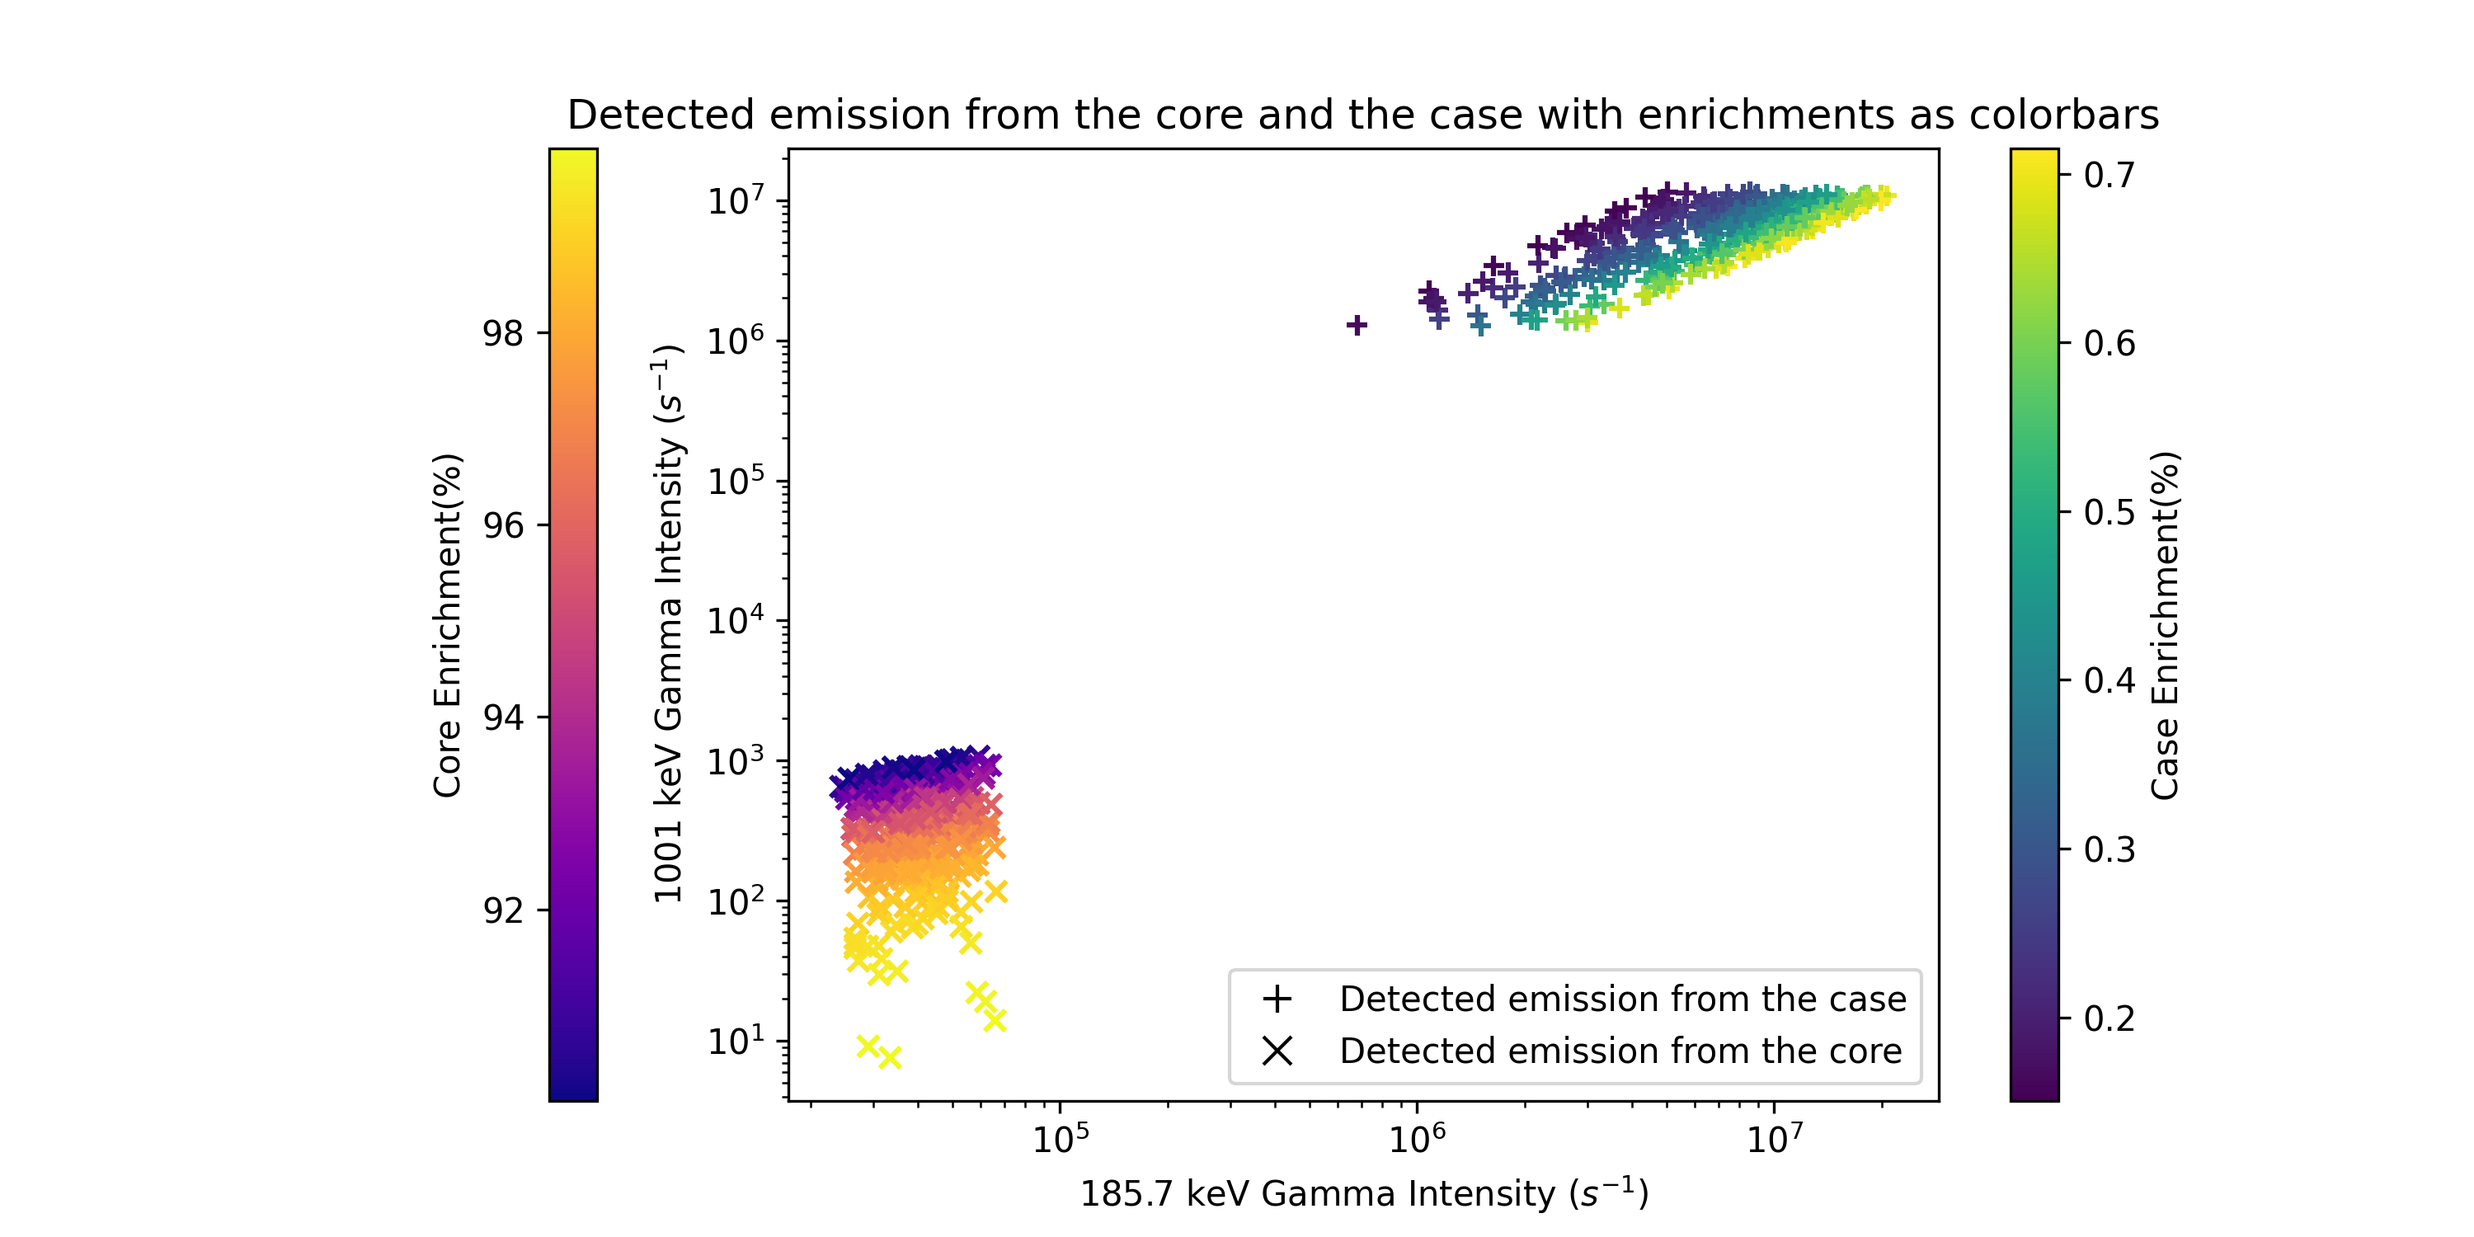
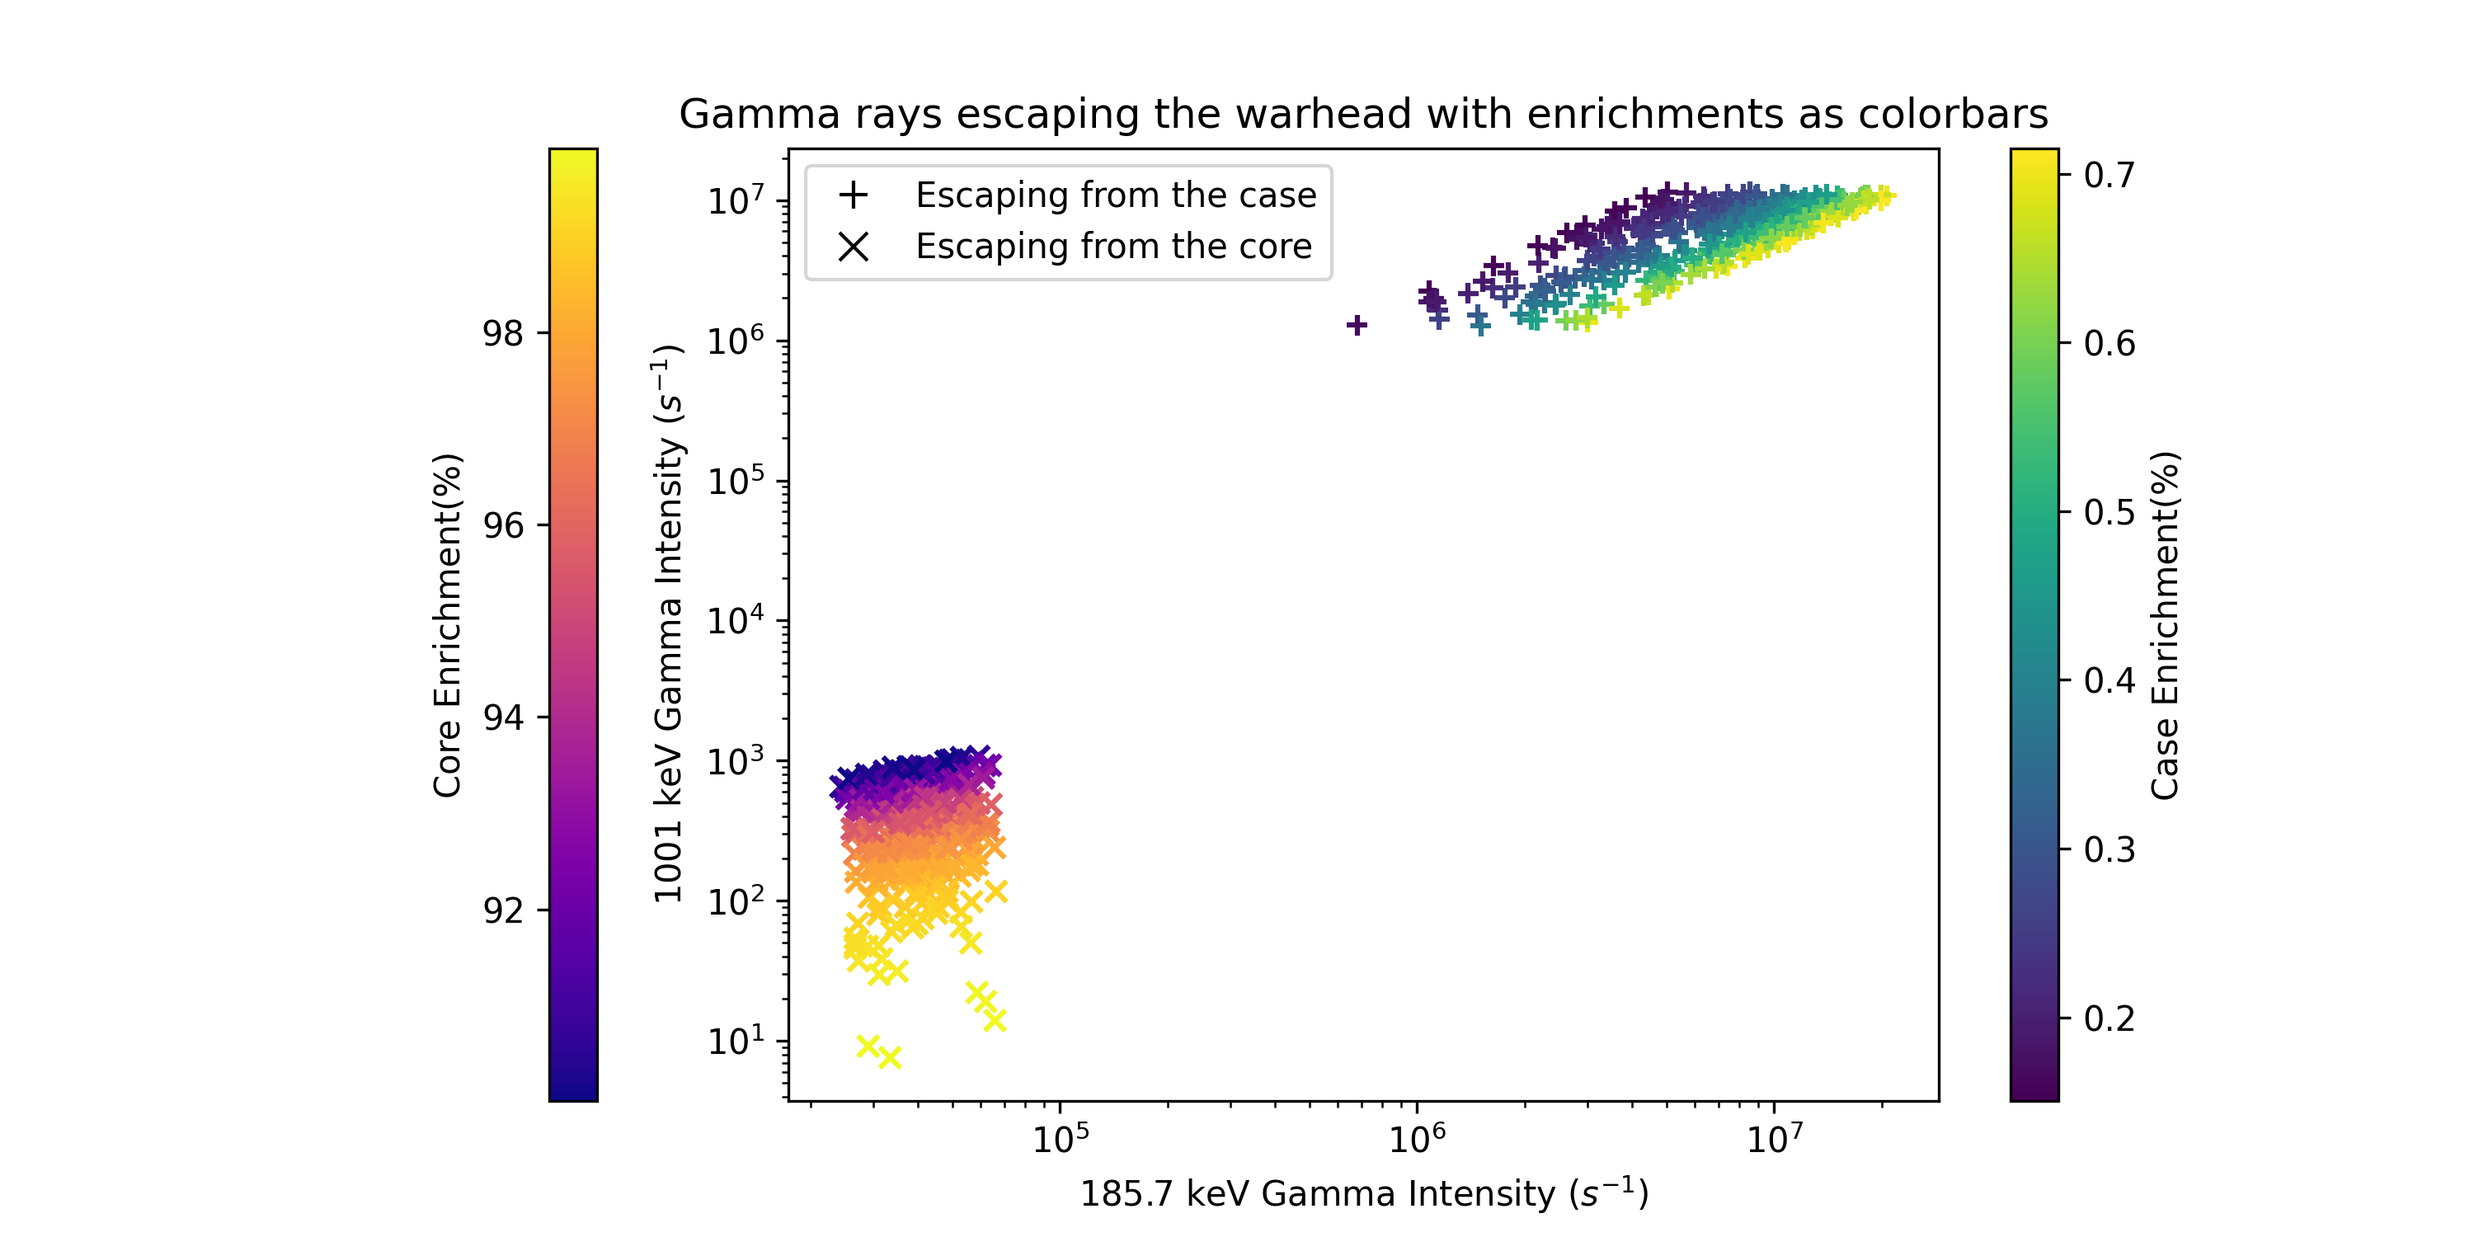
All figures updated

Changed region(s): [[0.217, 0.0613, 0.868, 0.2147], [0.496, 0.7667, 0.775, 0.8893]]

diff --git a/plot.py b/plot.py
@@ -87,7 +87,7 @@ def core_case_plot(metadata):
 
     plt.figure(figsize=(10, 5))
     ax = plt.gca()
-    plt.title("Detected emission from the core and the case with case thickness as a colorbar")
+    plt.title("Gamma rays escaping the warhead with case thickness as a colorbar")
 
     plt.scatter(photon_intensity_case_185, photon_intensity_case_1001, marker='+', label="Detected emission from the case", c=Z, alpha=alpha_values)
     sc = plt.scatter(photon_intensity_core_185, photon_intensity_core_1001, marker='x', label="Detected emission from the core", c=Z, alpha=alpha_values)
@@ -97,9 +97,9 @@ def core_case_plot(metadata):
 
     # Create custom legend handles (force alpha=1)
     legend_elements = [
-        Line2D([0], [0], marker='+', linestyle='None', label='Detected emission from the case',
+        Line2D([0], [0], marker='+', linestyle='None', label='Escaping from the case',
             color='black', markersize=8, alpha=1.0),
-        Line2D([0], [0], marker='x', linestyle='None', label='Detected emission from the core',
+        Line2D([0], [0], marker='x', linestyle='None', label='Escaping from the core',
             color='black', markersize=8, alpha=1.0)
     ]
 
@@ -117,7 +117,7 @@ def core_case_plot(metadata):
 
     plt.figure(figsize=(10, 5))
     ax = plt.gca()
-    plt.title("Detected emission from the core and the case with case mass as a colorbar")
+    plt.title("Gamma rays escaping the warhead with case mass as a colorbar")
 
     plt.scatter(photon_intensity_case_185, photon_intensity_case_1001, marker='+', label="Detected emission from the case", c=radiationCase_masses, alpha=alpha_values)
     sc = plt.scatter(photon_intensity_core_185, photon_intensity_core_1001, marker='x', label="Detected emission from the core", c=radiationCase_masses, alpha=alpha_values)
@@ -127,9 +127,9 @@ def core_case_plot(metadata):
 
     # Create custom legend handles (force alpha=1)
     legend_elements = [
-        Line2D([0], [0], marker='+', linestyle='None', label='Detected emission from the case',
+        Line2D([0], [0], marker='+', linestyle='None', label='Escaping from the case',
             color='black', markersize=8, alpha=1.0),
-        Line2D([0], [0], marker='x', linestyle='None', label='Detected emission from the core',
+        Line2D([0], [0], marker='x', linestyle='None', label='Escaping from the core',
             color='black', markersize=8, alpha=1.0)
     ]
 
@@ -147,7 +147,7 @@ def core_case_plot(metadata):
 
     plt.figure(figsize=(10, 5))
     ax = plt.gca()
-    plt.title("Detected emission from the core and the case with space radius as a colorbar")
+    plt.title("Gamma rays escaping the warhead with space radius as a colorbar")
 
     plt.scatter(photon_intensity_case_185, photon_intensity_case_1001, marker='+', label="Detected emission from the case", c=space_thicknesses, alpha=alpha_values)
     sc = plt.scatter(photon_intensity_core_185, photon_intensity_core_1001, marker='x', label="Detected emission from the core", c=space_thicknesses, alpha=alpha_values)
@@ -157,9 +157,9 @@ def core_case_plot(metadata):
 
     # Create custom legend handles (force alpha=1)
     legend_elements = [
-        Line2D([0], [0], marker='+', linestyle='None', label='Detected emission from the case',
+        Line2D([0], [0], marker='+', linestyle='None', label='Escaping from the case',
             color='black', markersize=8, alpha=1.0),
-        Line2D([0], [0], marker='x', linestyle='None', label='Detected emission from the core',
+        Line2D([0], [0], marker='x', linestyle='None', label='Escaping emission from the core',
             color='black', markersize=8, alpha=1.0)
     ]
 
@@ -177,7 +177,7 @@ def core_case_plot(metadata):
 
     plt.figure(figsize=(10, 5))
     ax = plt.gca()
-    plt.title("Detected emission from the core and the case with enrichments as colorbars")
+    plt.title("Gamma rays escaping the warhead with enrichments as colorbars")
 
     sc_case = plt.scatter(
         photon_intensity_case_185, 
@@ -202,9 +202,9 @@ def core_case_plot(metadata):
 
     # Create custom legend handles (force alpha=1)
     legend_elements = [
-        Line2D([0], [0], marker='+', linestyle='None', label='Detected emission from the case',
+        Line2D([0], [0], marker='+', linestyle='None', label='Escaping from the case',
             color='black', markersize=8, alpha=1.0),
-        Line2D([0], [0], marker='x', linestyle='None', label='Detected emission from the core',
+        Line2D([0], [0], marker='x', linestyle='None', label='Escaping from the core',
             color='black', markersize=8, alpha=1.0)
     ]
 
@@ -222,7 +222,7 @@ def core_case_plot(metadata):
 
     plt.figure(figsize=(10, 5))
     ax = plt.gca()
-    plt.title("Detected emission from the core and the case with gap thickness as colorbars")
+    plt.title("Gamma rays escaping the warhead with gap thickness as colorbars")
 
     plt.scatter(photon_intensity_case_185, photon_intensity_case_1001, marker='+', label="Detected emission from the case", c=gap_thicknesses, alpha=alpha_values)
     sc = plt.scatter(photon_intensity_core_185, photon_intensity_core_1001, marker='x', label="Detected emission from the core", c=gap_thicknesses, alpha=alpha_values)
@@ -232,9 +232,9 @@ def core_case_plot(metadata):
 
     # Create custom legend handles (force alpha=1)
     legend_elements = [
-        Line2D([0], [0], marker='+', linestyle='None', label='Detected emission from the case',
+        Line2D([0], [0], marker='+', linestyle='None', label='Escaping from the case',
             color='black', markersize=8, alpha=1.0),
-        Line2D([0], [0], marker='x', linestyle='None', label='Detected emission from the core',
+        Line2D([0], [0], marker='x', linestyle='None', label='Escaping from the core',
             color='black', markersize=8, alpha=1.0)
     ]
 

diff --git a/plot_codes/plot_DUcoreVsCore.py b/plot_codes/plot_DUcoreVsCore.py
@@ -25,14 +25,14 @@ def core_case_emission_detection_plot(metadata):
     photon_intensity_DUcore_1001 = np.array(photon_intensity_DUcore_1001)
     
 
-    plt.figure(figsize=(10, 5))
+    plt.figure(figsize=(10, 8))
     ax = plt.gca()
-    plt.title("Detected 185.7 keV photons from a HEU core and a DU core")
+    plt.title("185.7 keV gamma rays escaping from\na HEU warhead and a DU warhead", fontsize=30)
 
     bins_core = np.logspace(np.log10(photon_intensity_core_185.min()), np.log10(photon_intensity_core_185.max()), 50)
     plt.hist(photon_intensity_core_185, 
              bins=bins_core, 
-             alpha=0.5,
+             alpha=1,
              edgecolor='black',
              linewidth=0.8,
              histtype='stepfilled',
@@ -42,29 +42,29 @@ def core_case_emission_detection_plot(metadata):
     plt.hist(photon_intensity_DUcore_185, 
              edgecolor='black',
              linewidth=0.8,
-             alpha=0.5,
+             alpha=1,
              bins=bins_case, 
              histtype='stepfilled',
              label='DU Core',
              color='blue')
 
-    plt.legend()
+    plt.legend(fontsize=20)
 
-    plt.xlabel("185.7 keV Photon Intensity ($s^{-1}$)")
-    plt.ylabel("Count")
+    plt.xlabel("185.7 keV Photon Intensity ($s^{-1}$)", fontsize=20)
+    plt.ylabel("Count", fontsize=20)
     ax.set_xscale('log')
 
     plt.savefig(f"coreVsDucore_185_hist.png", dpi=300)
 
 
-    plt.figure(figsize=(10, 5))
+    plt.figure(figsize=(10, 8))
     ax = plt.gca()
-    plt.title("Detected 1001 keV photons from a HEU core and a DU core")
+    plt.title("1001 keV gamma rays escaping from\na HEU warhead and a DU warhead", fontsize=30)
 
     bins_core = np.logspace(np.log10(photon_intensity_core_1001.min()), np.log10(photon_intensity_core_1001.max()), 50)
     plt.hist(photon_intensity_core_1001, 
              bins=bins_core, 
-             alpha=0.5,
+             alpha=1,
              edgecolor='black',
              linewidth=0.8,
              histtype='stepfilled',
@@ -74,16 +74,16 @@ def core_case_emission_detection_plot(metadata):
     plt.hist(photon_intensity_DUcore_1001, 
              edgecolor='black',
              linewidth=0.8,
-             alpha=0.5,
+             alpha=1,
              bins=bins_case, 
              histtype='stepfilled',
              label='DU Core',
              color='blue')
 
-    plt.legend()
+    plt.legend(fontsize=20)
 
-    plt.xlabel("1001 keV Photon Intensity ($s^{-1}$)")
-    plt.ylabel("Count")
+    plt.xlabel("1001 keV Photon Intensity ($s^{-1}$)", fontsize=20)
+    plt.ylabel("Count", fontsize=20)
     ax.set_xscale('log')
 
     plt.savefig(f"coreVsDucore_1001_hist.png", dpi=300)

diff --git a/plot_codes/plot_core_noCore_hist.py b/plot_codes/plot_core_noCore_hist.py
@@ -21,8 +21,8 @@ def core_case_emission_detection_plot(metadata):
         photon_detection_case_1001.append(geometry["detected_background_emission_1001.0keV"])
 
 
-    plt.figure(figsize=(10, 5))
-    plt.title("Detected 185.7 keV photons from a real and hoax warhead")
+    plt.figure(figsize=(10, 8))
+    plt.title("185.7 keV gamma rays escaping from\na real and hoax warhead", fontsize=30)
     photon_detection_core_185 = np.array(photon_detection_core_185)
     photon_detection_case_185 = np.array(photon_detection_case_185)
     photon_detection_real_185 = photon_detection_core_185 + photon_detection_case_185
@@ -46,16 +46,16 @@ def core_case_emission_detection_plot(metadata):
              label='Hoax',
              color='blue')
     
-    plt.legend()
+    plt.legend(fontsize=20)
 
-    plt.xlabel("185.7 keV Photon Intensity ($s^{-1}$)")
-    plt.ylabel("Count")
+    plt.xlabel("185.7 keV Photon Intensity ($s^{-1}$)", fontsize=20)
+    plt.ylabel("Count", fontsize=20)
     plt.xscale('log')
 
     plt.savefig(f"real_hoax_185keV.png", dpi=300)
 
-    plt.figure(figsize=(10, 5))
-    plt.title("Detected 1001 keV photons from a real and hoax warhead")
+    plt.figure(figsize=(10, 8))
+    plt.title("1001 keV gamma rays escaping from\na real and hoax warhead", fontsize=30)
     photon_detection_core_1001 = np.array(photon_detection_core_1001)
     photon_detection_case_1001 = np.array(photon_detection_case_1001)
     photon_detection_real_1001 = photon_detection_case_1001 + photon_detection_core_1001
@@ -79,10 +79,10 @@ def core_case_emission_detection_plot(metadata):
              label='Hoax',
              color='blue')
     
-    plt.legend()
+    plt.legend(fontsize=20)
 
-    plt.xlabel("1001 keV Photon Intensity ($s^{-1}$)")
-    plt.ylabel("Count")
+    plt.xlabel("1001 keV Photon Intensity ($s^{-1}$)", fontsize=20)
+    plt.ylabel("Count", fontsize=20)
     plt.xscale('log')
 
     plt.savefig(f"real_hoax_1001keV.png", dpi=300)

diff --git a/plot_codes/plot_emission_hist.py b/plot_codes/plot_emission_hist.py
@@ -21,8 +21,8 @@ def core_case_emission_detection_plot(metadata):
         photon_emission_case_1001.append(geometry["background_activity_1001.0keV"])
 
 
-    plt.figure(figsize=(10, 5))
-    plt.title("Emitted 185.7 keV photons from the core and the case")
+    plt.figure(figsize=(10, 8))
+    plt.title("1001 keV gamma rays emitted from\nthe core and the radiation case", fontsize=30)
     photon_emission_core_185 = np.array(photon_emission_core_185)
     photon_emission_case_185 = np.array(photon_emission_case_185)
 
@@ -43,16 +43,16 @@ def core_case_emission_detection_plot(metadata):
              label='Case',
              color='blue')
     
-    plt.legend()
+    plt.legend(fontsize=20)
 
-    plt.xlabel("185.7 keV Photon Intensity ($s^{-1}$)")
-    plt.ylabel("Count")
+    plt.xlabel("185.7 keV Photon Intensity ($s^{-1}$)", fontsize=20)
+    plt.ylabel("Count", fontsize=20)
     plt.xscale('log')
 
     plt.savefig(f"Emission_185keV.png", dpi=300)
 
-    plt.figure(figsize=(10, 5))
-    plt.title("Emitted 1001 keV photons from the core and the case")
+    plt.figure(figsize=(10, 8))
+    plt.title("1001 keV gamma rays emitted from\nthe core and the radiation case", fontsize=30)
     photon_emission_core_1001 = np.array(photon_emission_core_1001)
     photon_emission_case_1001 = np.array(photon_emission_case_1001)
 
@@ -73,10 +73,10 @@ def core_case_emission_detection_plot(metadata):
              label='Case',
              color='blue')
     
-    plt.legend()
+    plt.legend(fontsize=20)
 
-    plt.xlabel("1001 keV Photon Intensity ($s^{-1}$)")
-    plt.ylabel("Count")
+    plt.xlabel("1001 keV Photon Intensity ($s^{-1}$)", fontsize=20)
+    plt.ylabel("Count", fontsize=20)
     plt.xscale('log')
 
     plt.savefig(f"Emission_1001keV.png", dpi=300)

diff --git a/plot_codes/plot_detection_hist.py b/plot_codes/plot_detection_hist.py
@@ -21,8 +21,8 @@ def core_case_emission_detection_plot(metadata):
         photon_detection_case_1001.append(geometry["detected_background_emission_1001.0keV"])
 
 
-    plt.figure(figsize=(10, 5))
-    plt.title("Detected 185.7 keV photons from the core and the case")
+    plt.figure(figsize=(10, 8))
+    plt.title("185.7 keV gamma rays escaping from\nthe core and the radiation case", fontsize=30)
     photon_detection_core_185 = np.array(photon_detection_core_185)
     photon_detection_case_185 = np.array(photon_detection_case_185)
 
@@ -43,16 +43,16 @@ def core_case_emission_detection_plot(metadata):
              label='Case',
              color='blue')
     
-    plt.legend()
+    plt.legend(fontsize=20)
 
-    plt.xlabel("185.7 keV Photon Intensity ($s^{-1}$)")
-    plt.ylabel("Count")
+    plt.xlabel("185.7 keV Photon Intensity ($s^{-1}$)", fontsize=20)
+    plt.ylabel("Count", fontsize=20)
     plt.xscale('log')
 
     plt.savefig(f"Detection_185keV.png", dpi=300)
 
-    plt.figure(figsize=(10, 5))
-    plt.title("Detected 1001 keV photons from the core and the case")
+    plt.figure(figsize=(10, 8))
+    plt.title("1001 keV gamma rays escaping from\nthe core and the radiation case", fontsize=30)
     photon_detection_core_1001 = np.array(photon_detection_core_1001)
     photon_detection_case_1001 = np.array(photon_detection_case_1001)
 
@@ -75,8 +75,8 @@ def core_case_emission_detection_plot(metadata):
     
     plt.legend()
 
-    plt.xlabel("1001 keV Photon Intensity ($s^{-1}$)")
-    plt.ylabel("Count")
+    plt.xlabel("1001 keV Photon Intensity ($s^{-1}$)", fontsize=20)
+    plt.ylabel("Count", fontsize=20)
     plt.xscale('log')
 
     plt.savefig(f"Detection_1001keV.png", dpi=300)

diff --git a/plot_codes/plot_attenuation.py b/plot_codes/plot_attenuation.py
@@ -30,14 +30,14 @@ def plot_attenaution(metadata_185, metadata_1001):
     plt.scatter(detected_core[0], detected_core[1], marker='x', label="After core", color="darkred")
     plt.scatter(detected_reflector[0], detected_reflector[1], marker='x', label="After reflector", color="firebrick")
     plt.scatter(detected_HE[0], detected_HE[1], marker='x', label="After HE", color="red")
-    plt.scatter(detected_radiationCase[0], detected_radiationCase[1], marker='x', label="After radiaiton case", color="orangered")
+    plt.scatter(detected_radiationCase[0], detected_radiationCase[1], marker='x', label="After radiation case", color="orangered")
     plt.scatter(detected[0], detected[1], marker='x', label="After casing", color="orange")
 
     plt.annotate("Emission", emission, xytext=(-25, -14), textcoords="offset points")
     plt.annotate("After core", detected_core, xytext=(5, -4), textcoords="offset points")
     plt.annotate("After reflector", detected_reflector, xytext=(5, -10), textcoords="offset points")
     plt.annotate("After HE", detected_HE, xytext=(5, -4), textcoords="offset points")
-    plt.annotate("After radiaiton case", detected_radiationCase, xytext=(5, -4), textcoords="offset points")
+    plt.annotate("After radiation case", detected_radiationCase, xytext=(5, -4), textcoords="offset points")
     plt.annotate("After casing", detected, xytext=(5, -10), textcoords="offset points")
 
 
